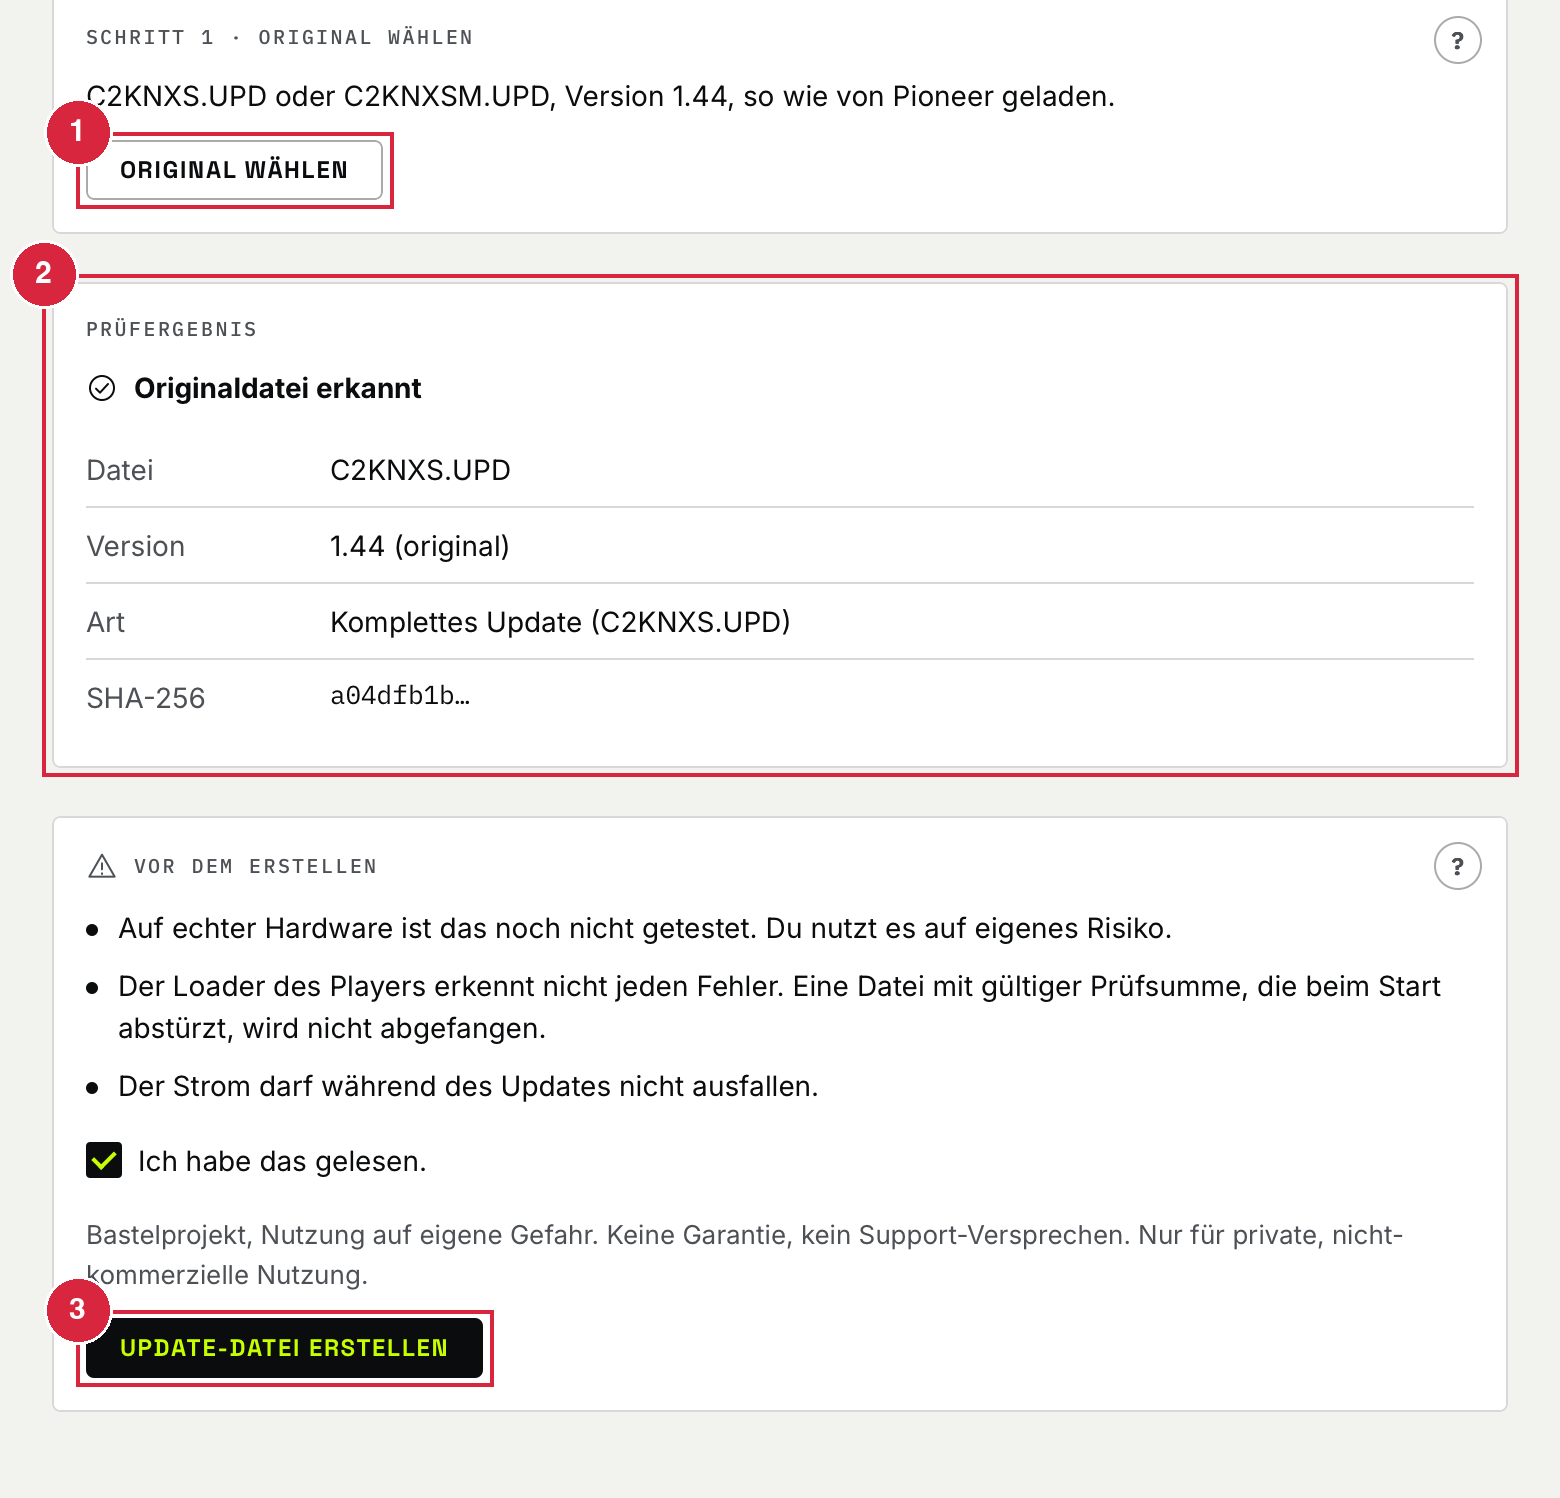
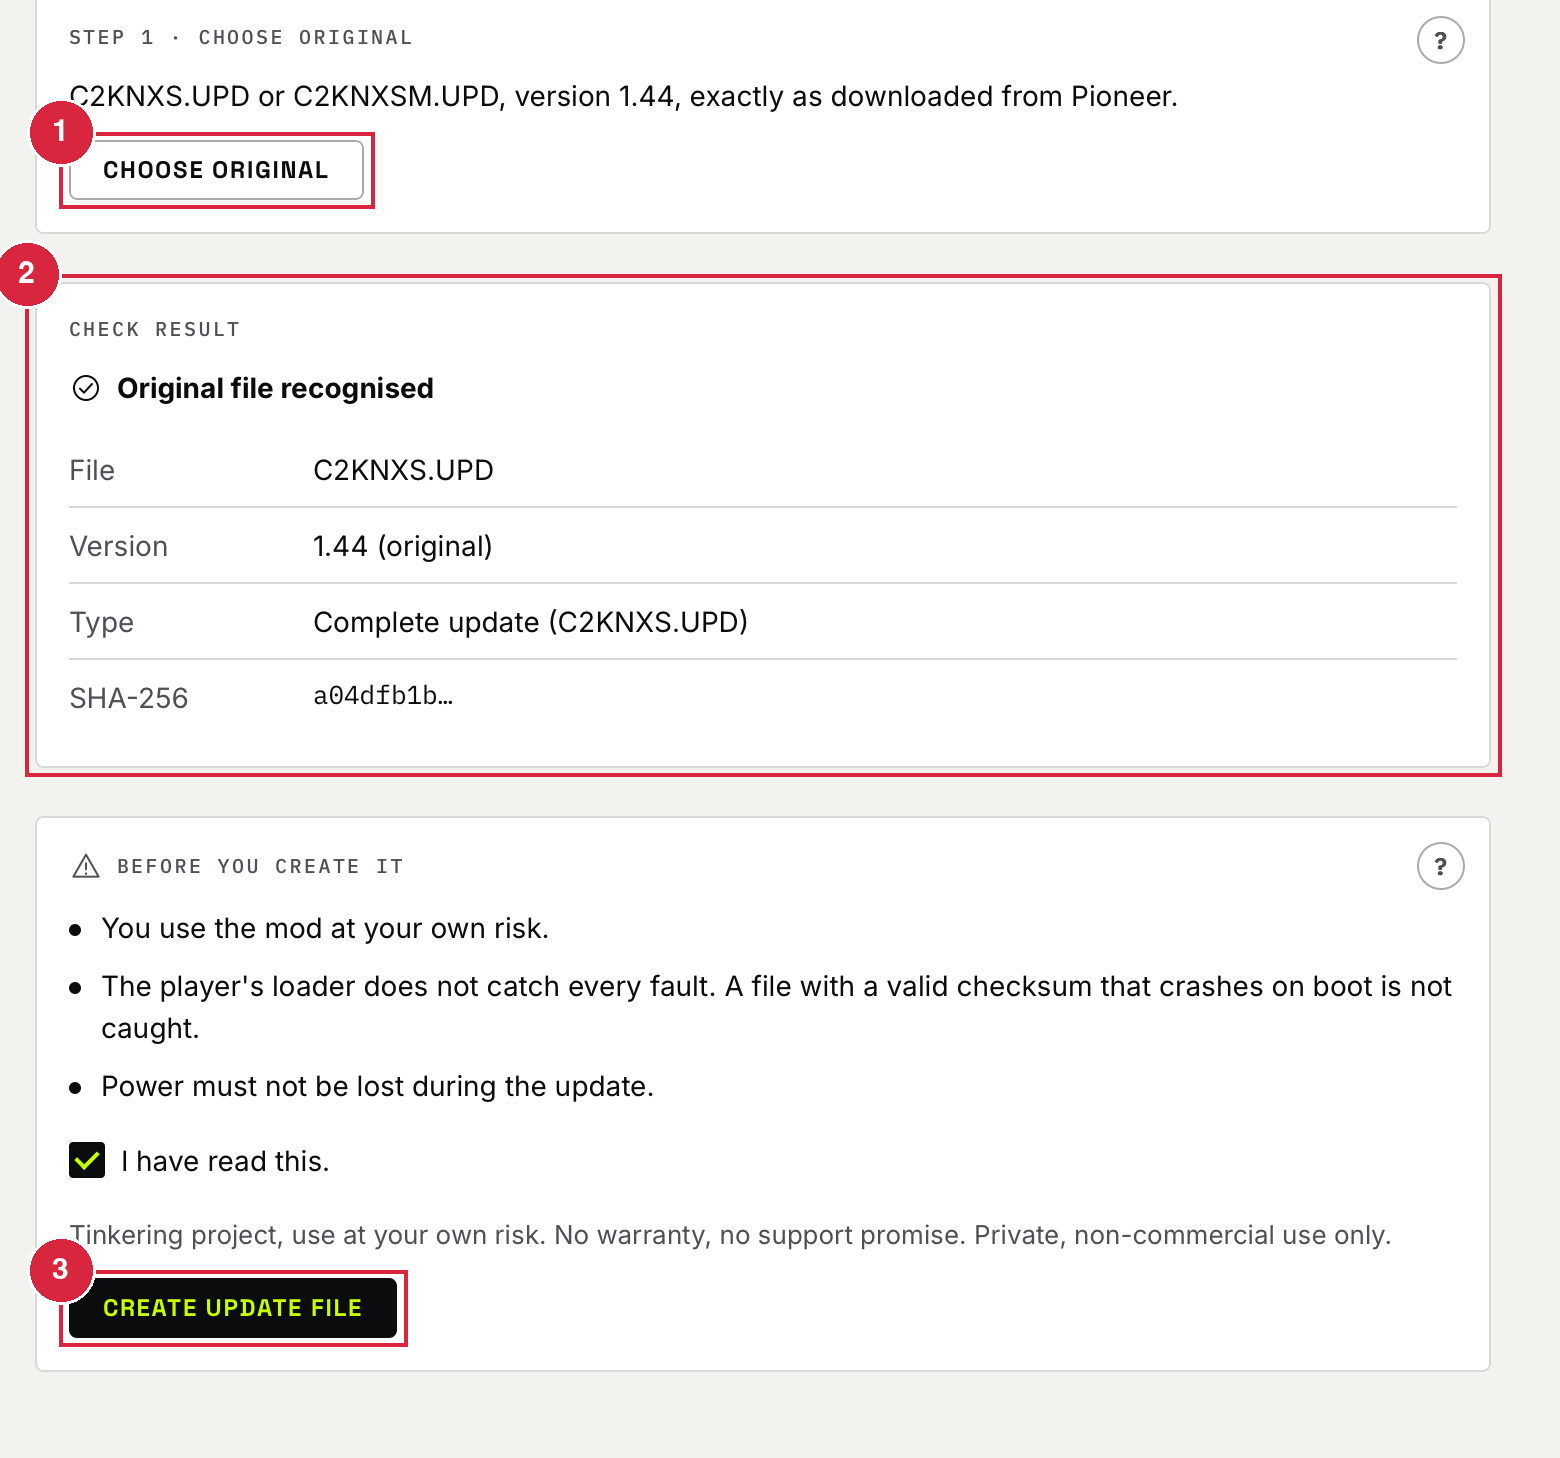
EN

Changed region(s): [[0.0, 0.0617, 0.9846, 0.9259], [0.0308, 0.0, 0.3077, 0.0309], [0.9231, 0.0, 0.9538, 0.0617]]

diff --git a/README.md b/README.md
@@ -2,159 +2,138 @@
 
 # StemDock 0.9 (BETA)
 
-**Deutsch** · [English below](#english)
+Free helper tool for the **Pioneer CDJ-2000NXS**.
 
-Kostenloses Hilfsprogramm für den **Pioneer CDJ-2000NXS**.
+- Builds an **update file** with the stem mod from **your own** original firmware 1.44.
+- Prepares your **USB stick**: **4 layers** per track (Vocal, Melody, Bass, Drums).
+- Runs **locally**, nothing is uploaded.
 
-- Erstellt aus **deiner eigenen** Original-Firmware 1.44 eine **Update-Datei** mit der Stem-Mod.
-- Bereitet deinen **USB-Stick** vor: **4 Layer** pro Titel (Vocal, Melody, Bass, Drums).
-- Läuft **lokal**, nichts wird hochgeladen.
+> **BETA, at your own risk:** flashing can **damage** the player. Not everything is tested on real hardware. **Keep your original 1.44 file.**
 
-> **BETA, auf eigenes Risiko:** Flashen kann den Player **beschädigen**. Nicht alles ist auf echter Hardware erprobt. **Originaldatei 1.44 aufheben.**
+## What you need
 
-## Das brauchst du
+- **Mac** with Apple chip (Windows untested)
+- Your **original 1.44 file** (`C2KNXS.UPD` or `C2KNXSM.UPD`) from Pioneer
+- **FAT32** USB stick
+- **rekordbox** export (folder `PIONEER/rekordbox`)
+- Only for separating: **Python 3.10 to 3.12** and internet (once)
 
-- **Mac** mit Apple-Chip (Windows ungetestet)
-- Deine **Originaldatei 1.44** (`C2KNXS.UPD` oder `C2KNXSM.UPD`) von Pioneer
-- **FAT32**-USB-Stick
-- **rekordbox**-Export (Ordner `PIONEER/rekordbox`)
-- Nur zum Trennen: **Python 3.10 bis 3.12** und Internet (einmalig)
+## Install (macOS)
 
-## Installieren (macOS)
+- Put `StemDock.app` into **Applications**.
+- The app is **not notarized**: first start via **right-click > Open > Open**.
+- Alternatively: **System Settings > Privacy & Security > Open Anyway**.
+- Confirm the **notice** on first start.
 
-- `StemDock.app` in den Ordner **Programme** legen.
-- Die App ist **nicht notarisiert**: erster Start per **Rechtsklick > Öffnen > Öffnen**.
-- Alternativ: **Systemeinstellungen > Datenschutz & Sicherheit > Dennoch öffnen**.
-- Beim ersten Start den **Hinweis** bestätigen.
+The **?** on every card shows a short help.
 
-Das **?** auf jeder Karte zeigt eine Kurzhilfe.
+## 1. Firmware: create the update file
 
-## 1. Firmware: Update-Datei erstellen
+![Firmware flow](docs/flow-firmware.svg)
 
-![Ablauf Firmware](docs/flow-firmware.svg)
+![Choose original](docs/screenshots/firmware-1-pick.png)
 
-![Original wählen](docs/screenshots/firmware-1-pick.png)
+1. **Choose Original**: your 1.44 file.
+2. **Check result**: StemDock rejects wrong or already modified files.
+3. Tick the box, **Create Update File** (about 15 s).
 
-1. **Original wählen**: deine Datei 1.44.
-2. **Prüfergebnis**: StemDock lehnt falsche oder schon veränderte Dateien ab.
-3. Haken setzen, **Update-Datei erstellen** (ca. 15 s).
+![Short help](docs/screenshots/firmware-2-help.png)
 
-![Kurzhilfe](docs/screenshots/firmware-2-help.png)
+1. **?** opens the short help (also by keyboard).
+2. It contains **flashing** and **way back**.
 
-1. **?** öffnet die Kurzhilfe (auch per Tastatur).
-2. Dort stehen **Flashen** und **Rückweg**.
+![Done](docs/screenshots/firmware-3-done.png)
 
-![Fertig](docs/screenshots/firmware-3-done.png)
+1. The file is named **`C2KNXSM.UPD`**.
+2. The flashing steps are shown in the app.
 
-1. Datei heißt **`C2KNXSM.UPD`**.
-2. Die Schritte zum Flashen stehen in der App.
+**Flashing:**
 
-**Flashen:**
-
-- **Reihenfolge:** **USB + RELOOP/EXIT** beim Einschalten des CDJ-2000NXS gedrückt halten
-- Meldung **"Connect the USB storage device"** abwarten, **dann** den Stick einstecken
-- Warten, **nicht ausschalten**, Strom darf nicht ausfallen
-- **Stick:** leer oder der **rekordbox-Stick**, immer **FAT32**; Datei ins Hauptverzeichnis
-- **Zurück zur Original-Firmware inkl. GUI:** **USB STOP + USB + RELOOP/EXIT** beim Einschalten gedrückt halten.
-
-**Rückweg:**
-
-- Die Mod setzt die Versionsnummer von **1.44 auf 1.43**.
-- So kannst du **jederzeit zur Original-Firmware 1.44 zurückwechseln**: gleiche Methode, deine Originaldatei.
-
-## 2. Titel in 4 Layer trennen (PREP)
-
-![Ablauf Trennen](docs/flow-stems.svg)
-
-![Stick und Titel](docs/screenshots/stems-1-stick.png)
-
-1. **Stick oder Export wählen**.
-2. **Playlist** wählen.
-3. **Titel** ankreuzen (bereits getrennte sind markiert).
-
-![Methode](docs/screenshots/stems-2-method.png)
-
-1. **Mit StemDock trennen**: braucht das Zusatzpaket (siehe Einstellungen).
-2. **Eigene Layer-Dateien**: 4 Dateien pro Titel, StemDock ordnet zu und prüft.
-
-![Trennen](docs/screenshots/stems-3-separate.png)
-
-1. **Titel trennen**: nacheinander, **Abbrechen** jederzeit.
-
-![Schreiben](docs/screenshots/stems-4-write.png)
-
-1. **Auf den Stick schreiben**: Musik und Export bleiben **unverändert**, `exstem.pdb` wird als `.bak` gesichert.
-
-- Titel mit Layer liegen im Playlist-Ordner **STEMS**.
-- **Entfernen** löscht nur die Layer eines Titels.
-- **Platz:** etwa **53 MB pro Minute** Musik auf dem Stick (gemessen: 270 MB für 5:06).
-
-## 3. Einstellungen
-
-![Allgemein und Zusatzpaket](docs/screenshots/settings-1-general.png)
-
-1. **Darstellung:** System, Hell oder Dunkel.
-2. **Sprache:** Deutsch oder English.
-3. **Zusatzpaket:** installiert Demucs zum Trennen (**ca. 0,8 GB** + Modell **ca. 86 MB**), nur nach Bestätigung, **Entfernen** löscht es wieder. Code: MIT, Lizenz der Modellgewichte **nicht eindeutig**, bitte selbst prüfen.
-
-![Einzel-Layer](docs/screenshots/settings-2-single-layers.png)
-
-1. **Einzel-Layer zusätzlich ablegen:** speichert die 4 Layer als WAV zum Anhören (Standard **aus**, nie auf den Stick).
-2. **Zielordner wählen:** wohin die WAV-Dateien kommen.
-
-![Info und Updates](docs/screenshots/settings-3-info.png)
-
-1. **Anleitung auf GitHub:** öffnet diese Seite.
-2. **Beim Start auf Updates prüfen:** Standard **aus**.
-3. **Auf Updates prüfen:** fragt nur **github.com** nach der neuesten Version (auch Betas), lädt nichts.
-4. **Version** der App.
-
-## Am Player
-
-- **Loop Mode 3x:** Layer über **Rampen** steuern.
-- **Loop Mode 2x (Pads):** **in Arbeit**.
-
-## Bekannte Grenzen
-
-- **BETA**, nicht alles auf Hardware erprobt
-- Immer genau **4 Layer** pro Titel
-- Trennen braucht Zusatzpaket, Python 3.10 bis 3.12 und Zeit
-- Windows ungetestet, App nur ad-hoc signiert
-
-## Danke
-
-- **Demucs** und Alexandre Défossez: https://github.com/adefossez/demucs
-- Emulatoren: [CDJ-2000 Emulator](https://github.com/cdj2k-revival/cdj2000-emulator) (cdj2k-revival), [cdj-nxs2-qemu](https://github.com/Stijn-Jacobs/cdj-nxs2-qemu) (Stijn-Jacobs)
-
-## Spende und Kontakt
-
-- StemDock ist kostenlos, die Entwicklung war es nicht (viele bezahlte AI-Tokens): [Spende auf Ko-fi](https://ko-fi.com/cne_dj)
-- Kontakt: http://cne-dj.com · http://cne-lab.de
-
-## Haftung
-
-- Bastelprojekt, **eigene Gefahr**, keine Garantie, kein Support-Versprechen
-- Nur private, nicht-kommerzielle Nutzung
-- Unabhängig, **keine Verbindung** zu Pioneer DJ oder AlphaTheta
-
----
-
-## English
-
-Free helper tool for the **Pioneer CDJ-2000NXS**. **Local only**, nothing is uploaded.
-
-- **BETA, at your own risk:** flashing can **damage** the player. **Keep your original 1.44 file.**
-- **Needs:** Mac with Apple chip, your **own 1.44 file**, **FAT32** stick, rekordbox export; for separating **Python 3.10 to 3.12**.
-- **Install:** not notarized, first start via **right-click > Open > Open**.
-- **Firmware:** FIRMWARE tab > **Original wählen** > **create update file** (`C2KNXSM.UPD`) > copy to the stick (empty or the **rekordbox stick**, always **FAT32**).
-- **Flash:** hold **USB + RELOOP/EXIT** while switching on the CDJ-2000NXS, wait for **"Connect the USB storage device"**, then plug in the stick.
+- **Order:** hold **USB + RELOOP/EXIT** while switching on the CDJ-2000NXS
+- Wait for the message **"Connect the USB storage device"**, **then** plug in the stick
+- Wait, **do not switch off**, power must not be lost
+- **Stick:** empty or the **rekordbox stick**, always **FAT32**; file in the root folder
 - **Back to the original firmware including GUI:** hold **USB STOP + USB + RELOOP/EXIT** while switching on.
-- **Way back:** the mod changes the version from **1.44 to 1.43**, so you can **switch back to the original firmware 1.44 at any time**.
-- **Stems:** PREP tab > choose stick, playlist, tracks > method (**separate** with the add-on or **own layer files**) > write. About **53 MB per minute** on the stick.
-- **Settings:** appearance, language, add-on package (Demucs, about 0.8 GB + 86 MB model), single-layer WAV export (off by default), optional update check (github.com only, off by default).
-- **Player:** **Loop Mode 3x** ramps; **Loop Mode 2x** pads: work in progress.
-- **Thanks:** Demucs / Alexandre Défossez; [CDJ-2000 Emulator](https://github.com/cdj2k-revival/cdj2000-emulator), [cdj-nxs2-qemu](https://github.com/Stijn-Jacobs/cdj-nxs2-qemu). **Donate:** https://ko-fi.com/cne_dj. **Contact:** http://cne-dj.com · http://cne-lab.de
-- **Disclaimer:** hobby project, no warranty, private non-commercial use, not affiliated with Pioneer DJ or AlphaTheta.
+
+**Way back:**
+
+- The mod sets the version number from **1.44 to 1.43**.
+- So you can **switch back to the original firmware 1.44 at any time**: same method, your original file.
+
+## 2. Split tracks into 4 layers (PREP)
+
+![Stems flow](docs/flow-stems.svg)
+
+![Stick and tracks](docs/screenshots/stems-1-stick.png)
+
+1. **Choose stick or export**.
+2. Choose a **playlist**.
+3. Tick **tracks** (already split ones are marked).
+
+![Method](docs/screenshots/stems-2-method.png)
+
+1. **Separate with StemDock**: needs the add-on package (see Settings).
+2. **Use my own layer files**: 4 files per track, StemDock matches and checks them.
+
+![Separate](docs/screenshots/stems-3-separate.png)
+
+1. **Separate**: one track after another, **Cancel** at any time.
+
+![Write](docs/screenshots/stems-4-write.png)
+
+1. **Write to the stick**: music and export stay **unchanged**, `exstem.pdb` is kept as `.bak`.
+
+- Tracks with layers are in the playlist folder **STEMS**.
+- **Remove** deletes only the layers of one track.
+- **Space:** about **53 MB per minute** of music on the stick (measured: 270 MB for 5:06).
+
+## 3. Settings
+
+![General and add-on](docs/screenshots/settings-1-general.png)
+
+1. **Appearance:** System, Light or Dark.
+2. **Language:** Deutsch or English.
+3. **Add-on package:** installs Demucs for separating (**about 0.8 GB** + model **about 86 MB**), only after confirmation, **Remove** deletes it again. Code: MIT, licence of the model weights **not clearly settled**, please check it yourself.
+
+![Single layers](docs/screenshots/settings-2-single-layers.png)
+
+1. **Also save single layers:** saves the 4 layers as WAV for listening (default **off**, never onto the stick).
+2. **Choose target folder:** where the WAV files go.
+
+![Info and updates](docs/screenshots/settings-3-info.png)
+
+1. **Manual on GitHub:** opens this page.
+2. **Check for updates at start:** default **off**.
+3. **Check for updates:** only asks **github.com** for the latest version (betas included), downloads nothing.
+4. **Version** of the app.
+
+## On the player
+
+- **Loop Mode 3x:** control layers via **ramps**.
+- **Loop Mode 2x (pads):** **work in progress**.
+
+## Known limits
+
+- **BETA**, not everything tested on hardware
+- Always exactly **4 layers** per track
+- Separating needs the add-on package, Python 3.10 to 3.12 and time
+- Windows untested, app only ad-hoc signed
+
+## Thanks
+
+- **Demucs** and Alexandre Défossez: https://github.com/adefossez/demucs
+- Emulators: [CDJ-2000 Emulator](https://github.com/cdj2k-revival/cdj2000-emulator) (cdj2k-revival), [cdj-nxs2-qemu](https://github.com/Stijn-Jacobs/cdj-nxs2-qemu) (Stijn-Jacobs)
+
+## Donation and contact
+
+- StemDock is free, its development was not (lots of paid AI tokens): [donate on Ko-fi](https://ko-fi.com/cne_dj)
+- Contact: http://cne-dj.com · http://cne-lab.de
+
+## Disclaimer
+
+- Hobby project, **at your own risk**, no warranty, no promise of support
+- Private, non-commercial use only
+- Independent, **not affiliated** with Pioneer DJ or AlphaTheta
 
 ---
 

diff --git a/CHANGELOG.md b/CHANGELOG.md
@@ -1,14 +1,14 @@
 # Changelog
 
 ## 0.9 (build 8) — 2026-11-04
-- Optionale Pruefung auf neue Versionen ueber die GitHub-Releases (Betas zaehlen mit)
-- MANUAL-Reiter entfernt: Kurzhilfe (?) auf den Karten, Link "Anleitung auf GitHub"
-- Flash- und Rueckweg-Hinweise in der Firmware-Hilfe
-- README mit Screenshots und Schemata
+- Optional check for new versions via GitHub releases (betas count)
+- MANUAL tab removed: short help (?) on the cards, link "Manual on GitHub"
+- Flash and way-back notes in the firmware help
+- README with screenshots and flow diagrams
 
 ## 0.8 (build 7) — 2026-11-04
-- Immer 4 Layer, Ausrichtung beim Schreiben, Einstellungen und Texte ueberarbeitet
-- Optionale Pruefung auf neue Versionen (Einstellungen > Info, Standard aus); BETA-Hinweis
+- Always 4 layers, alignment when writing, settings and texts revised
+- Optional check for new versions (Settings > Info, default off); BETA notice
 
 ## 0.7 (build 6) — 2026-11-04
 - writes STEMS/idmap.bin automatically after every stick write (clear error if it fails)

diff --git a/THIRD-PARTY.md b/THIRD-PARTY.md
@@ -1,4 +1,4 @@
-# Third-party components / Fremde Bestandteile
+# Third-party components
 
 StemDock itself: see LICENSE.txt.
 
@@ -9,7 +9,7 @@ StemDock itself: see LICENSE.txt.
 | Inter | UI font, shipped | SIL Open Font License 1.1 (ui/fonts/OFL-inter.txt) |
 | IBM Plex Mono | UI font, shipped | SIL Open Font License 1.1 (ui/fonts/OFL-ibmplexmono.txt) |
 
-## Thanks / Danke
+## Thanks
 
 This modification was only possible thanks to these emulator projects (not part of StemDock, no code shipped):
 
@@ -18,4 +18,4 @@ This modification was only possible thanks to these emulator projects (not part 
 
 Pioneer DJ and AlphaTheta are trademarks of their respective owners. No original firmware is included.
 
-Homepage / Kontakt: http://cne-dj.com , http://cne-lab.de
+Homepage / contact: http://cne-dj.com , http://cne-lab.de
